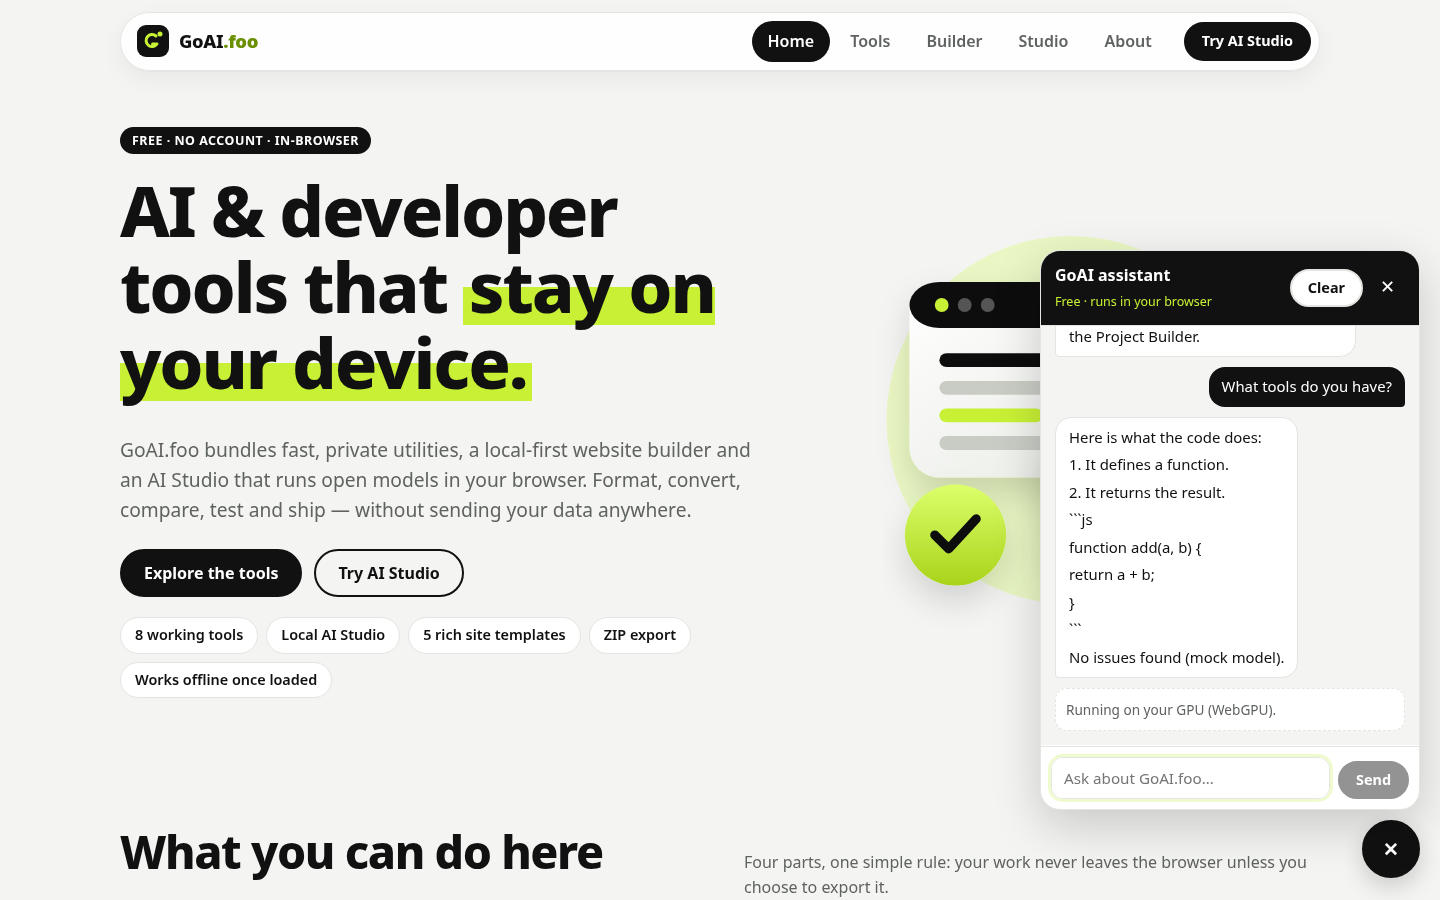
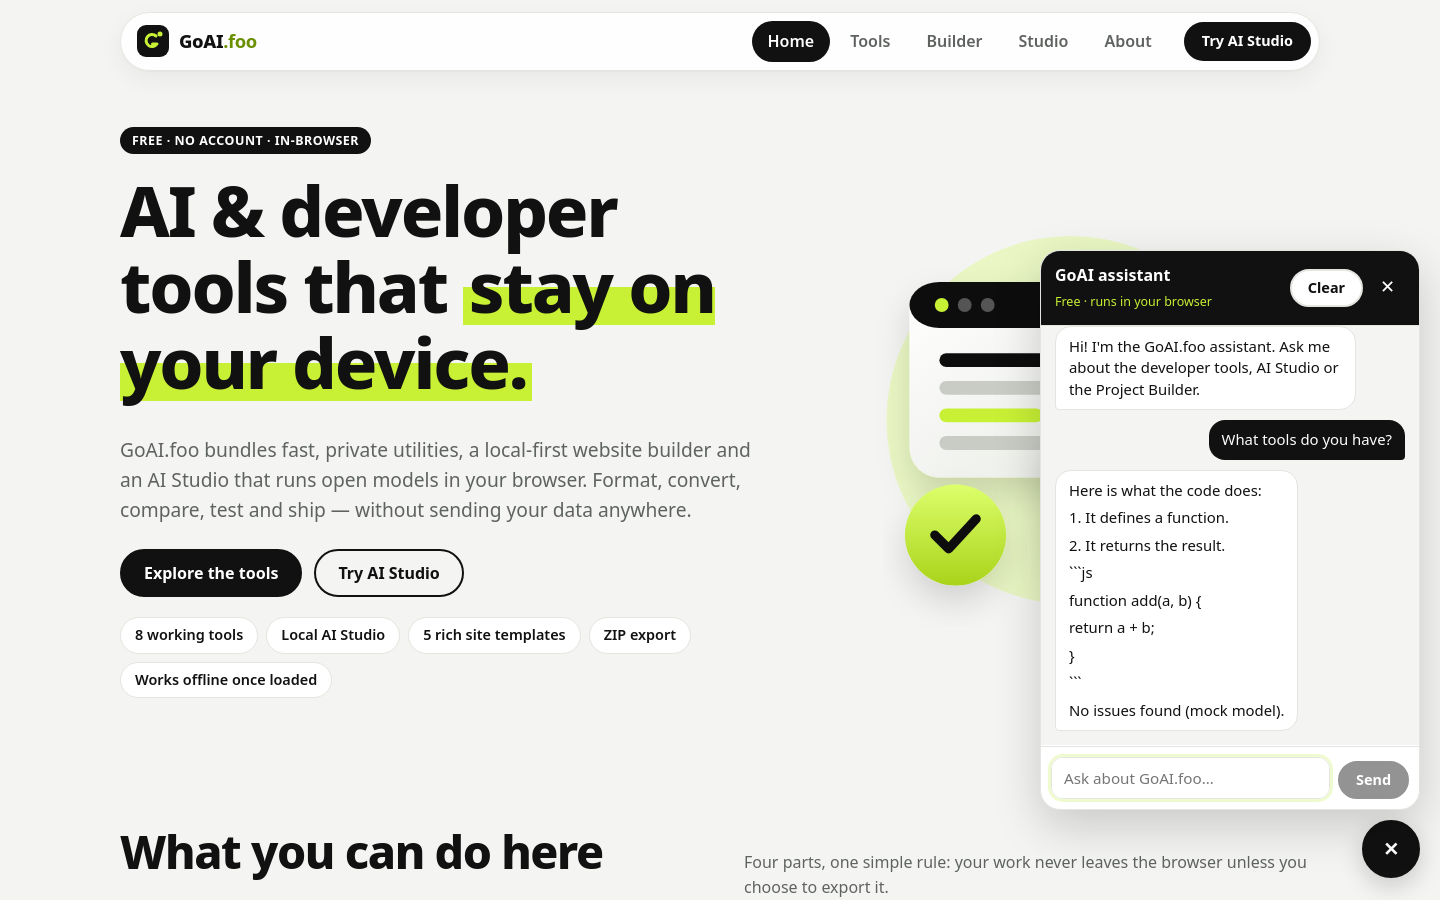
Chat: small phone model (SmolLM2-135M q8, ~131MB), quiet load on open, queued message, 3-min timeout + Retry

Changed region(s): [[0.75, 0.3733, 1.0, 0.7467], [0.75, 0.7778, 0.9062, 0.8089], [0.1562, 0.0311, 0.1875, 0.0622]]

diff --git a/components/chat/ChatWidget.tsx b/components/chat/ChatWidget.tsx
@@ -1,11 +1,11 @@
 "use client";
 import { useEffect, useRef, useState } from "react";
 import Link from "next/link";
-import { CHAT_SYSTEM, CHAT_MODELS, parseInline } from "@/lib/chatPrompt";
-import type { Engine, Progress } from "@/lib/studio/engine";
+import { CHAT_SYSTEM, CHAT_LOAD_TIMEOUT, pickChatModel, parseInline } from "@/lib/chatPrompt";
+import type { Engine } from "@/lib/studio/engine";
 import type { Msg } from "@/lib/studio/prompts";
 
-type Status = "idle" | "checking" | "loading" | "ready" | "error";
+type Status = "idle" | "loading" | "ready" | "error";
 const GREETING = "Hi! I'm the GoAI.foo assistant. Ask me about the developer tools, AI Studio or the Project Builder.";
 
 function Rich({ text }: { text: string }) {
@@ -19,35 +19,44 @@ export function ChatWidget() {
   const [msgs, setMsgs] = useState<Msg[]>([]);
   const [input, setInput] = useState("");
   const [status, setStatus] = useState<Status>("idle");
-  const [progress, setProgress] = useState<Progress>({ progress: 0, text: "" });
-  const [note, setNote] = useState("");
+  const [err, setErr] = useState("");
   const [busy, setBusy] = useState(false);
-  const eng = useRef<Engine | null>(null); const abort = useRef<AbortController | null>(null);
+  const eng = useRef<Engine | null>(null); const loading = useRef<Promise<Engine | null> | null>(null);
+  const abort = useRef<AbortController | null>(null);
   const list = useRef<HTMLDivElement>(null); const inputRef = useRef<HTMLTextAreaElement>(null);
 
-  useEffect(() => { list.current?.scrollTo({ top: list.current.scrollHeight }); }, [msgs, progress]);
+  useEffect(() => { list.current?.scrollTo({ top: list.current.scrollHeight }); }, [msgs, status]);
   useEffect(() => { if (!open) return; inputRef.current?.focus(); const k = (e: KeyboardEvent) => e.key === "Escape" && setOpen(false); addEventListener("keydown", k); return () => removeEventListener("keydown", k); }, [open]);
+  // Start loading quietly only once the panel is opened (visitors who never open chat download nothing).
+  useEffect(() => { if (open) void ensureEngine(); }, [open]); // eslint-disable-line react-hooks/exhaustive-deps
 
-  async function ensureEngine(): Promise<Engine | null> {
-    if (eng.current) return eng.current;
-    setStatus("checking");
-    try {
-      const e = await import("@/lib/studio/engine"); // lazy: engine + model libs load only when chatting
-      const gpu = await e.detectWebGPU();
-      const id = gpu.ok ? CHAT_MODELS.webgpu : CHAT_MODELS.cpu;
-      setNote(gpu.ok ? "Running on your GPU (WebGPU)." : "WebGPU isn't available here, so a smaller CPU model is used. Replies will be slower and simpler.");
-      setStatus("loading");
-      eng.current = await e.loadEngine(id, setProgress);
-      setStatus("ready"); return eng.current;
-    } catch (err) {
-      setStatus("error"); setNote("Couldn't load the AI model in this browser (" + String((err as Error)?.message ?? err).slice(0, 120) + "). Try a recent Chrome or Edge, or browse the tools directly.");
-      return null;
-    }
+  function ensureEngine(): Promise<Engine | null> {
+    if (eng.current) return Promise.resolve(eng.current);
+    if (loading.current) return loading.current;
+    setStatus("loading"); setErr("");
+    loading.current = (async () => {
+      try {
+        const e = await import("@/lib/studio/engine"); // lazy: engine + model libs load only when chatting
+        const gpu = await e.detectWebGPU();
+        const nav = navigator as Navigator & { deviceMemory?: number; userAgentData?: { mobile?: boolean } };
+        const mobile = nav.userAgentData?.mobile ?? /Android|iPhone|iPad|Mobile/i.test(navigator.userAgent);
+        const id = pickChatModel({ webgpu: gpu.ok, mobile, memGB: nav.deviceMemory });
+        let timer: ReturnType<typeof setTimeout> | undefined;
+        const timeout = new Promise<never>((_, rej) => { timer = setTimeout(() => rej(new Error("timeout")), CHAT_LOAD_TIMEOUT); });
+        try { eng.current = await Promise.race([e.loadEngine(id, () => {}), timeout]); } finally { clearTimeout(timer); }
+        setStatus("ready"); return eng.current;
+      } catch (x) {
+        console.warn("[chat] model load failed", x);
+        setStatus("error");
+        setErr(String((x as Error)?.message) === "timeout" ? "The assistant is taking too long to load on this connection." : "The assistant couldn't load in this browser.");
+        return null;
+      } finally { loading.current = null; }
+    })();
+    return loading.current;
   }
 
-  async function send() {
-    const q = input.trim(); if (!q || busy) return;
-    setInput(""); const next: Msg[] = [...msgs, { role: "user", content: q }]; setMsgs(next); setBusy(true);
+  async function answer(next: Msg[]) {
+    setBusy(true);
     const e = await ensureEngine(); if (!e) { setBusy(false); return; }
     const { trimHistory } = await import("@/lib/studio/prompts");
     setMsgs([...next, { role: "assistant", content: "" }]);
@@ -56,10 +65,19 @@ export function ChatWidget() {
       const out = await e.generate(trimHistory([{ role: "system", content: CHAT_SYSTEM }, ...next], 5000), { maxTokens: 320, temperature: 0.4, signal: abort.current.signal,
         onToken: (full) => setMsgs([...next, { role: "assistant", content: full }]) });
       setMsgs([...next, { role: "assistant", content: out || "(no reply)" }]);
-    } catch (err) { setMsgs([...next, { role: "assistant", content: "Sorry, something went wrong: " + String(err).slice(0, 100) }]); }
+    } catch (x) { setMsgs([...next, { role: "assistant", content: "Sorry, something went wrong: " + String(x).slice(0, 100) }]); }
     finally { setBusy(false); abort.current = null; }
   }
+  function send() {
+    const q = input.trim(); if (!q || busy) return;
+    setInput(""); const next: Msg[] = [...msgs, { role: "user", content: q }]; setMsgs(next); void answer(next); // queued until the model is ready
+  }
+  function retry() {
+    const last = msgs[msgs.length - 1];
+    if (last?.role === "user") void answer(msgs); else void ensureEngine();
+  }
   const clear = () => { abort.current?.abort(); setMsgs([]); };
+  const waiting = busy && status === "loading" && msgs[msgs.length - 1]?.role === "user";
 
   return (
     <>
@@ -78,12 +96,9 @@ export function ChatWidget() {
           <div className="cw-list" ref={list} aria-live="polite">
             <div className="cw-msg assistant"><Rich text={GREETING} /></div>
             {msgs.map((m, i) => <div key={i} className={"cw-msg " + m.role}>{m.content ? <Rich text={m.content} /> : <span className="cw-dots" aria-label="Thinking"><i/><i/><i/></span>}</div>)}
-            {(status === "checking" || status === "loading") && (
-              <div className="cw-status"><div>{status === "checking" ? "Checking your browser…" : progress.text || "Preparing model…"}</div>
-                <div className="cw-bar"><span style={{ width: Math.round(progress.progress * 100) + "%" }} /></div>
-                <small>First time only: the model downloads once and is cached for next visits.</small></div>
-            )}
-            {note && status !== "loading" && status !== "checking" && <div className={"cw-note" + (status === "error" ? " err" : "")}>{note}</div>}
+            {waiting && <div className="cw-msg assistant"><span className="cw-dots" aria-label="Thinking"><i/><i/><i/></span></div>}
+            {status === "loading" && <div className="cw-calm">Runs privately on your device: a small AI model loads once, then it&apos;s instant.</div>}
+            {status === "error" && <div className="cw-note err">{err} <button type="button" className="btn btn-ghost btn-sm cw-retry" onClick={retry}>Retry</button></div>}
           </div>
           <form className="cw-form" onSubmit={(e) => { e.preventDefault(); send(); }}>
             <textarea id="cw-input" ref={inputRef} rows={1} value={input} placeholder="Ask about GoAI.foo…" aria-label="Message" onChange={(e) => setInput(e.target.value)} onKeyDown={(e) => { if (e.key === "Enter" && !e.shiftKey) { e.preventDefault(); send(); } }} />

diff --git a/lib/studio/models.ts b/lib/studio/models.ts
@@ -1,5 +1,5 @@
 export type ModelKind = "webllm" | "transformers";
-export type ModelInfo = { id: string; name: string; kind: ModelKind; sizeMB: number; tasks: ("chat" | "code" | "text" | "summarize" | "translate")[]; note: string; recommended?: boolean };
+export type ModelInfo = { id: string; name: string; kind: ModelKind; sizeMB: number; tasks: ("chat" | "code" | "text" | "summarize" | "translate")[]; note: string; recommended?: boolean; dtype?: string };
 
 /** Free, open models. WebLLM models need WebGPU; Transformers.js models run on WASM (CPU) in any modern browser. Sizes = approximate download/VRAM. */
 export const MODELS: ModelInfo[] = [
@@ -9,6 +9,7 @@ export const MODELS: ModelInfo[] = [
   { id: "Qwen2.5-1.5B-Instruct-q4f16_1-MLC", name: "Qwen2.5 1.5B Instruct", kind: "webllm", sizeMB: 1630, tasks: ["chat", "text", "code"], note: "Smarter answers; needs a decent GPU." },
   { id: "Llama-3.2-3B-Instruct-q4f16_1-MLC", name: "Llama 3.2 3B Instruct", kind: "webllm", sizeMB: 2264, tasks: ["chat", "text", "code"], note: "Highest quality here; desktop GPU recommended." },
   { id: "HuggingFaceTB/SmolLM2-360M-Instruct", name: "SmolLM2 360M (CPU)", kind: "transformers", sizeMB: 390, tasks: ["chat", "text", "code"], note: "No WebGPU needed. Slower and simpler answers.", recommended: true },
+  { id: "HuggingFaceTB/SmolLM2-135M-Instruct", name: "SmolLM2 135M (phone)", kind: "transformers", sizeMB: 131, dtype: "q8", tasks: ["chat", "text"], note: "Tiny and phone-friendly. Simple answers." },
   { id: "Xenova/distilbart-cnn-6-6", name: "DistilBART summarizer (CPU)", kind: "transformers", sizeMB: 300, tasks: ["summarize"], note: "Dedicated summarization model." },
   { id: "Xenova/opus-mt-mul-en", name: "OPUS-MT many→English (CPU)", kind: "transformers", sizeMB: 310, tasks: ["translate"], note: "Dedicated translation to English." },
 ];

diff --git a/e2e/chat-widget.js b/e2e/chat-widget.js
@@ -10,7 +10,7 @@ const B = "http://localhost:3312", S = "/workspace/goai/docs/screenshots/";
   await p.screenshot({ path: S + "chat-widget-open-desktop.png" });
   await p.fill("#cw-input", "What tools do you have?"); await p.keyboard.press("Enter");
   await p.waitForSelector(".cw-msg.assistant:has-text('mock model')", { timeout: 15000 }); await p.waitForTimeout(600);
-  ok("streamed reply", true); ok("gpu note", (await p.locator(".cw-note:has-text('WebGPU')").count()) === 1);
+  ok("streamed reply", true); ok("no progress bar", (await p.locator(".cw-bar").count()) === 0);
   await p.screenshot({ path: S + "chat-widget-reply-desktop.png" });
   await p.click("button:has-text('Clear')"); ok("clear", (await p.locator(".cw-msg.user").count()) === 0);
   await p.keyboard.press("Escape"); ok("esc closes", (await p.locator(".cw-panel").count()) === 0);
@@ -20,7 +20,7 @@ const B = "http://localhost:3312", S = "/workspace/goai/docs/screenshots/";
   await m.screenshot({ path: S + "chat-widget-closed-mobile.png" });
   await m.click(".cw-fab"); await m.fill("#cw-input", "Hi"); await m.keyboard.press("Enter");
   await m.waitForSelector(".cw-msg.assistant:has-text('mock model')", { timeout: 15000 }); await m.waitForTimeout(600);
-  ok("cpu fallback note", (await m.locator(".cw-note:has-text('smaller CPU model')").count()) === 1);
+  ok("no error note", (await m.locator(".cw-note.err").count()) === 0);
   await m.screenshot({ path: S + "chat-widget-reply-mobile.png" });
   await m.click(".cw-x"); ok("close btn", (await m.locator(".cw-panel").count()) === 0);
   ok("no page errors", errs.length === 0); console.log(res.join("\n"), errs); await br.close();

diff --git a/lib/chatPrompt.ts b/lib/chatPrompt.ts
@@ -11,7 +11,14 @@ AI Studio (/studio): free AI models running on the device (WebGPU, or CPU fallba
 Other pages: [About](/about), [Privacy](/privacy), [Terms](/terms).
 If you do not know something about the site, say so and suggest the closest page. Do not invent features or prices.`;
 
-export const CHAT_MODELS = { webgpu: "Qwen2.5-0.5B-Instruct-q4f16_1-MLC", cpu: "HuggingFaceTB/SmolLM2-360M-Instruct" } as const;
+export const CHAT_MODELS = { desktop: "Qwen2.5-0.5B-Instruct-q4f16_1-MLC", small: "HuggingFaceTB/SmolLM2-135M-Instruct" } as const;
+/** Load timeout for the chat model (ms). */
+export const CHAT_LOAD_TIMEOUT = 180_000;
+/** The ~945 MB WebGPU model only on capable desktops; phones / low memory / no WebGPU get the ~131 MB model. */
+export function pickChatModel(env: { webgpu: boolean; mobile: boolean; memGB?: number }): string {
+  if (env.webgpu && !env.mobile && (env.memGB ?? 8) >= 8) return CHAT_MODELS.desktop;
+  return CHAT_MODELS.small;
+}
 
 /** Render minimal safe Markdown: links to internal pages, bold, inline code. Returns segments. */
 export type Seg = { t: "text" | "link" | "bold" | "code"; v: string; href?: string };

diff --git a/lib/studio/engine.ts b/lib/studio/engine.ts
@@ -84,7 +84,7 @@ export async function loadEngine(id: string, onProgress: (p: Progress) => void):
   };
   const task = m.tasks.includes("summarize") ? "summarization" : m.tasks.includes("translate") ? "translation" : "text-generation";
   // eslint-disable-next-line @typescript-eslint/no-explicit-any
-  const pipe: any = await (t.pipeline as any)(task, m.id, { dtype: "q4", device: "wasm", progress_callback }).catch(() => (t.pipeline as any)(task, m.id, { progress_callback }));
+  const pipe: any = await (t.pipeline as any)(task, m.id, { dtype: m.dtype ?? "q4", device: "wasm", progress_callback }).catch(() => (t.pipeline as any)(task, m.id, { progress_callback }));
   const runTask = async (kind: "summarize" | "translate", text: string): Promise<string> => {
     const r = await pipe(text.slice(0, 3000), kind === "summarize" ? { max_new_tokens: 160 } : {});
     return r?.[0]?.summary_text ?? r?.[0]?.translation_text ?? "";

diff --git a/tests/chatModel.test.ts b/tests/chatModel.test.ts
@@ -1,0 +1,10 @@
+import { describe, it, expect } from "vitest";
+import { pickChatModel, CHAT_MODELS } from "../lib/chatPrompt";
+import { getModel } from "../lib/studio/models";
+describe("pickChatModel", () => {
+  it("phones get the small model even with WebGPU", () => expect(pickChatModel({ webgpu: true, mobile: true, memGB: 8 })).toBe(CHAT_MODELS.small));
+  it("low memory gets small", () => expect(pickChatModel({ webgpu: true, mobile: false, memGB: 4 })).toBe(CHAT_MODELS.small));
+  it("no WebGPU gets small", () => expect(pickChatModel({ webgpu: false, mobile: false })).toBe(CHAT_MODELS.small));
+  it("capable desktop gets Qwen", () => expect(pickChatModel({ webgpu: true, mobile: false, memGB: 8 })).toBe(CHAT_MODELS.desktop));
+  it("small model under 150MB", () => expect(getModel(CHAT_MODELS.small)!.sizeMB).toBeLessThan(150));
+});

diff --git a/app/globals.css b/app/globals.css
@@ -183,3 +183,4 @@ mark.m{background:var(--lime);border-radius:3px;padding:0 1px}mark.m.alt{backgro
 .cw-dots{display:inline-flex;gap:4px}.cw-dots i{width:6px;height:6px;border-radius:50%;background:var(--muted);animation:cwd 1s infinite alternate}.cw-dots i:nth-child(2){animation-delay:.2s}.cw-dots i:nth-child(3){animation-delay:.4s}
 @keyframes cwd{to{opacity:.2}}
 @media (max-width:760px){.cw-fab{bottom:92px;right:14px;width:52px;height:52px}.cw-panel{right:8px;left:8px;width:auto;bottom:156px;height:calc(100vh - 180px)}}
+.cw-calm{font-size:12px;color:var(--muted,#6b7280);text-align:center;padding:4px 8px}.cw-retry{margin-left:6px}
